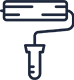
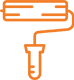
Going back to orange

Changed region(s): [[0.0, 0.0, 1.0, 1.0]]

diff --git a/pages/index.js b/pages/index.js
@@ -22,6 +22,8 @@ import { Router } from 'routes'
 
 css.global('*', { fontFamily: `'Open Sans', 'Oswald', sans-serif` })
 
+const primaryColor = '#F27D26'
+
 const divMenu = css({
   height: '200px',
   backgroundColor: '#fff',
@@ -183,7 +185,7 @@ const tableWidth = css({
 })
 const inquireWidth = css({
   width: '94vw',
-  backgroundColor: '#1d273b',
+  backgroundColor: primaryColor,
   color: '#fff',
   paddingBottom: '5px',
   paddingLeft: '0!important',
@@ -198,7 +200,7 @@ const inquireWidth = css({
 })
 const inquireP1 = css({
   backgroundColor: '#fff',
-  color: '#1d273b',
+  color: primaryColor,
   fontSize: '22px',
   padding: '10px 15px 10px 15px',
   marginBottom: '15px',
@@ -274,7 +276,7 @@ const getFreequote = css({
     width: '100%',
     height: '70px',
     fontSize: '22px',
-    backgroundColor: '#1d273b',
+    backgroundColor: primaryColor,
     color: '#fff',
     textTransform: 'uppercase',
     padding: '15px 30px',
@@ -284,7 +286,7 @@ const getFreequote = css({
       height: '94px'
     },
     ':hover': {
-      backgroundColor: '#1d273b',
+      backgroundColor: primaryColor,
       color: '#fff'
     }
   }
@@ -782,14 +784,14 @@ export default class Index extends Component {
           </Grid>
         </Div>
 
-        <Div backgroundColor="#1d273b" color="#fff">
+        <Div backgroundColor={primaryColor} color="#fff">
           <Grid container>
             <Grid.Column centered textAlign="center">
               <Div padding="80px 0 70px">
                 <Text is="h1" f={[2, 1, 1]}>
                   <Span fontFamily="'Oswald', sans-serif">
                     {' '}
-                    Call Family First Construction today!
+                    Call Family First Construction Today!
                   </Span>
                 </Text>
                 <Text is="h2" f={[3, 2, 2]}>
